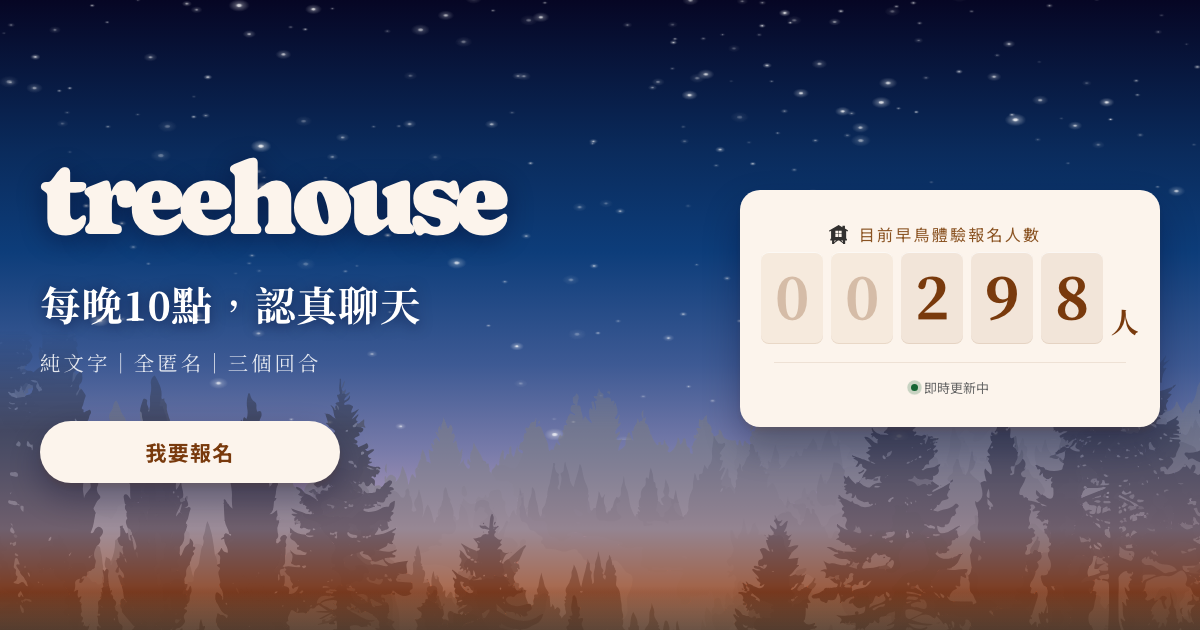
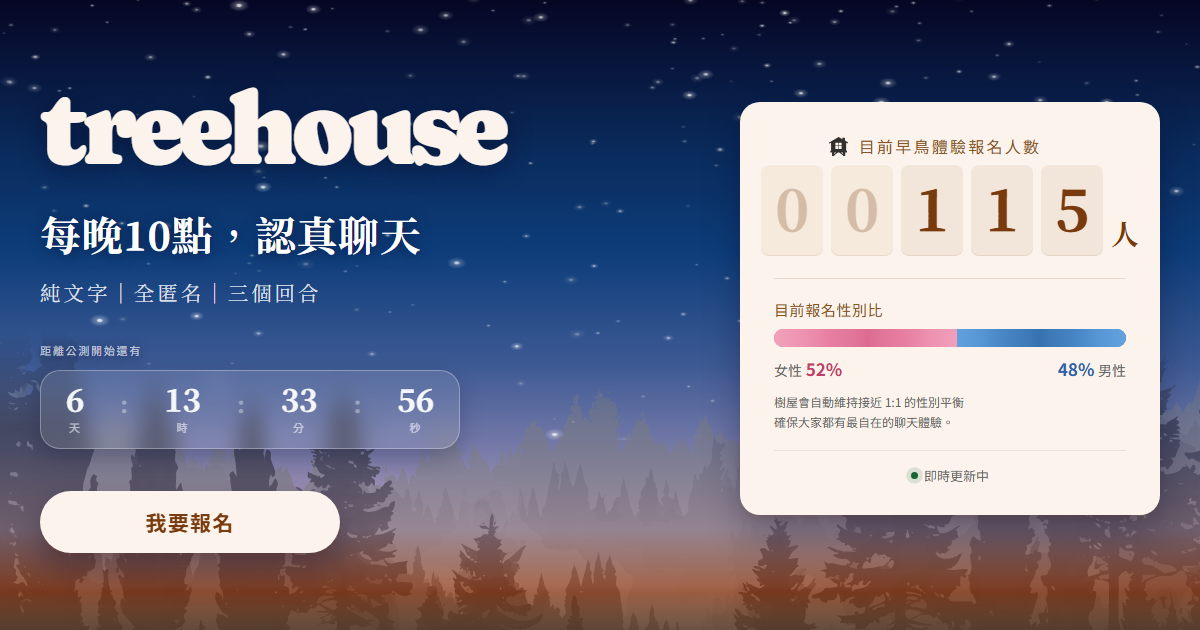
feat(join): hide footer behind a flag, refresh share card
Footer goes behind footer.enabled, off for now — Morgan wants it to
appear when the app itself launches rather than during the beta. The
element ships with hidden in the markup so a slow or failed script
cannot show it and then take it away; join.js only reveals it when the
flag is set. Config carries the note that it should come back on before
launch, since the page loads GA4 and would normally carry a privacy
link.

Share card regenerated against the sheet's new 起算值 of 113, so it
reads 00115 instead of 00298.

The card is a screenshot of the real first screen, so it now also bakes
in the countdown — "6 天 13 時 33 分 56 秒" is wrong by a day tomorrow
and the seconds are wrong immediately. Recorded in the handoff next to
the same problem for the count; both are up for a fix.

Design gate after the footer change (page height shifts, which could
have moved the desktop scrollbar and rescaled --u): spec-check 24/24,
compare unchanged at 32 PASS with the two known deltas and four
countdown anchor MISSes. Desktop CTA still clears the fold at 641/800.

diff --git a/assets/join.config.js b/assets/join.config.js
@@ -85,6 +85,16 @@ window.JOIN_CONFIG = {
     androidUrl: null                   // Google Play 連結，Public Release 前補
   },
 
+  // ---- 頁尾 ----
+  // 頁尾（treehouse 字標 + 隱私權政策／使用條款／刪除帳戶／常見問題 + 版權）。
+  // Beta 期間先關掉，等 App 正式上線再打開 —— Morgan 2026-08-20 決定。
+  // ⚠ 打開之前請注意：本頁有載入 GA4，一般慣例會在頁面上留一個隱私權政策的入口。
+  //    Beta 期間頁面本身不收資料（報名走 Google 表單），影響有限，但正式上線前
+  //    這個 footer 應該要開回來。
+  footer: {
+    enabled: false
+  },
+
   // ---- GA4 ----
   // 資源建立於公司帳號 admin@cherryontech.com。事件資料保留期限已設 14 個月。
   // 後台已註冊的自訂維度（事件範圍），參數名稱必須跟程式送出的 key 完全一致：

diff --git a/assets/join.js b/assets/join.js
@@ -18,6 +18,7 @@
     pricing: { enabled: false, amountLabel: "NT$240", trialDuration: "30 天" },
     countdown: { enabled: false, targetIso: null },
     cta: { mode: "form", formBaseUrl: "https://forms.gle/oKRJeB39md3gFTvH9", iosUrl: null, androidUrl: null },
+    footer: { enabled: false },
     ga4: { measurementId: null }
   };
 
@@ -39,6 +40,7 @@
     pricing: mergeSection("pricing"),
     countdown: mergeSection("countdown"),
     cta: mergeSection("cta"),
+    footer: mergeSection("footer"),
     ga4: mergeSection("ga4")
   };
 
@@ -805,6 +807,10 @@
         gaSafe("event", "cta_click", payload);
       });
     }
+
+    // 頁尾：預設在 HTML 裡就帶 hidden，旗標打開才顯示（見 join.config.js 的 footer）
+    var joinFooter = document.getElementById("joinFooter");
+    if (CFG.footer.enabled && joinFooter) joinFooter.hidden = false;
 
     initCarousel();
   }

diff --git a/join/index.html b/join/index.html
@@ -183,8 +183,10 @@
 
 </main>
 
-<!-- ══ 10 · Footer ══ -->
-<footer class="site-footer">
+<!-- ══ 10 · Footer ══
+     由 join.config.js 的 footer.enabled 控制，預設關閉（App 正式上線後再打開）。
+     預設就帶 hidden，所以 JS 沒跑到也不會先閃一下才消失。 -->
+<footer class="site-footer" id="joinFooter" hidden>
   <div class="shell">
     <p class="site-footer__wordmark">treehouse</p>
     <nav class="site-footer__links" aria-label="頁尾連結">

diff --git a/join/HANDOFF.md b/join/HANDOFF.md
@@ -263,3 +263,30 @@ repo 在 c6ntech org，但這台 Mac 的 git 預設認證是 hytmots，直接 pu
 
 重點：`utm_content` 每篇貼文都要不同且全小寫。程式把網址參數名稱**原樣**帶進 GA4，
 不做大小寫正規化，`utm_Source` 會對不上後台註冊的 `utm_source`。
+
+## 頁尾（08-20 起關閉，App 正式上線要開回來）
+
+`footer.enabled = false`。頁尾（treehouse 字標 + 隱私權政策／使用條款／刪除帳戶／
+常見問題 + 版權）在 Beta 期間先不顯示，Morgan 2026-08-20 決定，理由是想等 App 正式
+上線再一起加上。
+
+HTML 裡 `#joinFooter` 預設就帶 `hidden`，旗標打開時才由 join.js 移除 —— 這樣 JS
+沒跑到也不會先閃一下才消失。實測：關閉時高度 0、不佔版位；打開時高度 162。
+
+⚠ **正式上線前要記得開回來**（`join.config.js` 的 `footer.enabled` 改 true）。
+本頁有載入 GA4，一般慣例會在頁面上留一個隱私權政策的入口；Beta 期間頁面本身不收資料
+（報名走 Google 表單）所以影響有限，但這是暫時狀態，不是最終設計。
+
+## 分享卡 `assets/join/og-image.png`
+
+是把 `/join` 在 1200x630 視窗下**截真實首屏**產生的靜態圖（`tools/build-og-image.sh`），
+所以卡片上的東西會隨時間過時：
+
+- **報名人數**：08-20 已重截為 `00115`（Sheet 起算值由 298 改為 113）。之後頁面數字
+  會繼續長，卡片不會。
+- **倒數**：現在卡片上印著「6 天 13 時 33 分 56 秒」。這比數字更糟 —— 秒數在靜態圖上
+  永遠是錯的，天數每天差一天。
+
+**未決（Morgan 08-20 表示明天再處理）**：把卡片上的數字改成 `???` 之類不會過時的呈現。
+倒數建議一併處理，兩者是同一類問題。在那之前每次改 `signup` 或 `countdown` 設定後
+都要重跑 `PORT=<port> bash tools/build-og-image.sh`（需本機 static server + gstack browse）。
